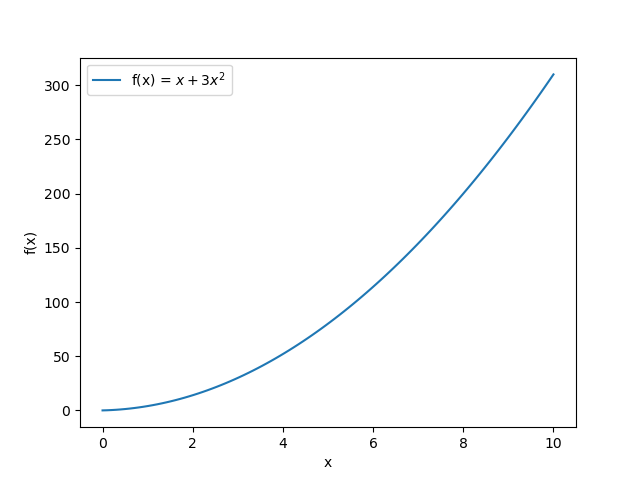
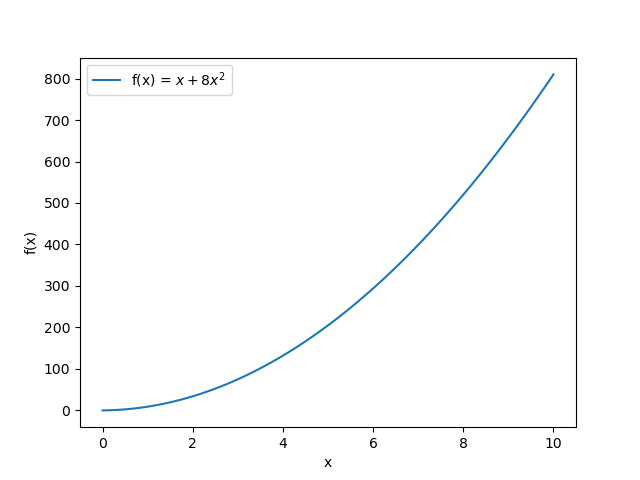
problem 3 check

diff --git a/homework2/pr3.py b/homework2/pr3.py
@@ -25,7 +25,7 @@ def hist_create(n=10000,mu=16,dev=4):
     # build figure
     fig, ax = plt.subplots()
     
-    ax.hist(r, density=True,label="Random values histogram")
+    ax.hist(r, bins=20, density=True,label="Random values histogram")
     ax.plot(xarr,yarr,'r-',alpha=0.6,label="Norm PDF")
 
     ax.legend()
